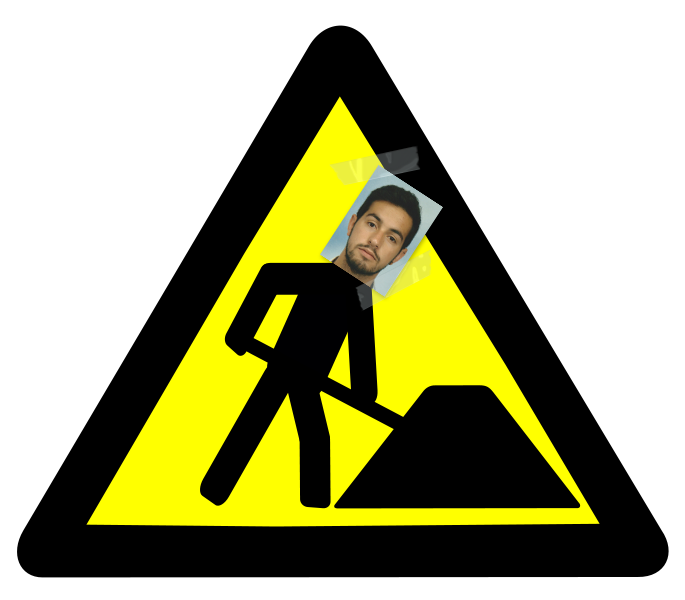
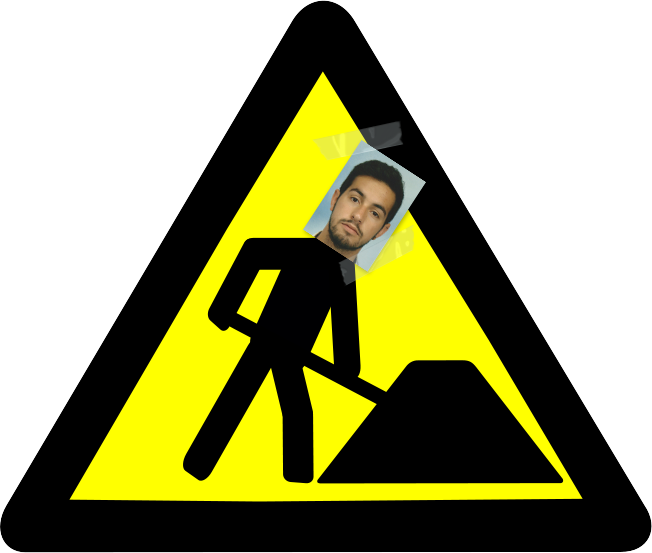
responsive test

diff --git a/style/index.css b/style/index.css
@@ -16,6 +16,8 @@ body {
 
 img {
 	margin: auto;
+	max-width: 100%;
+	height: auto;
 }
 
 .container {
